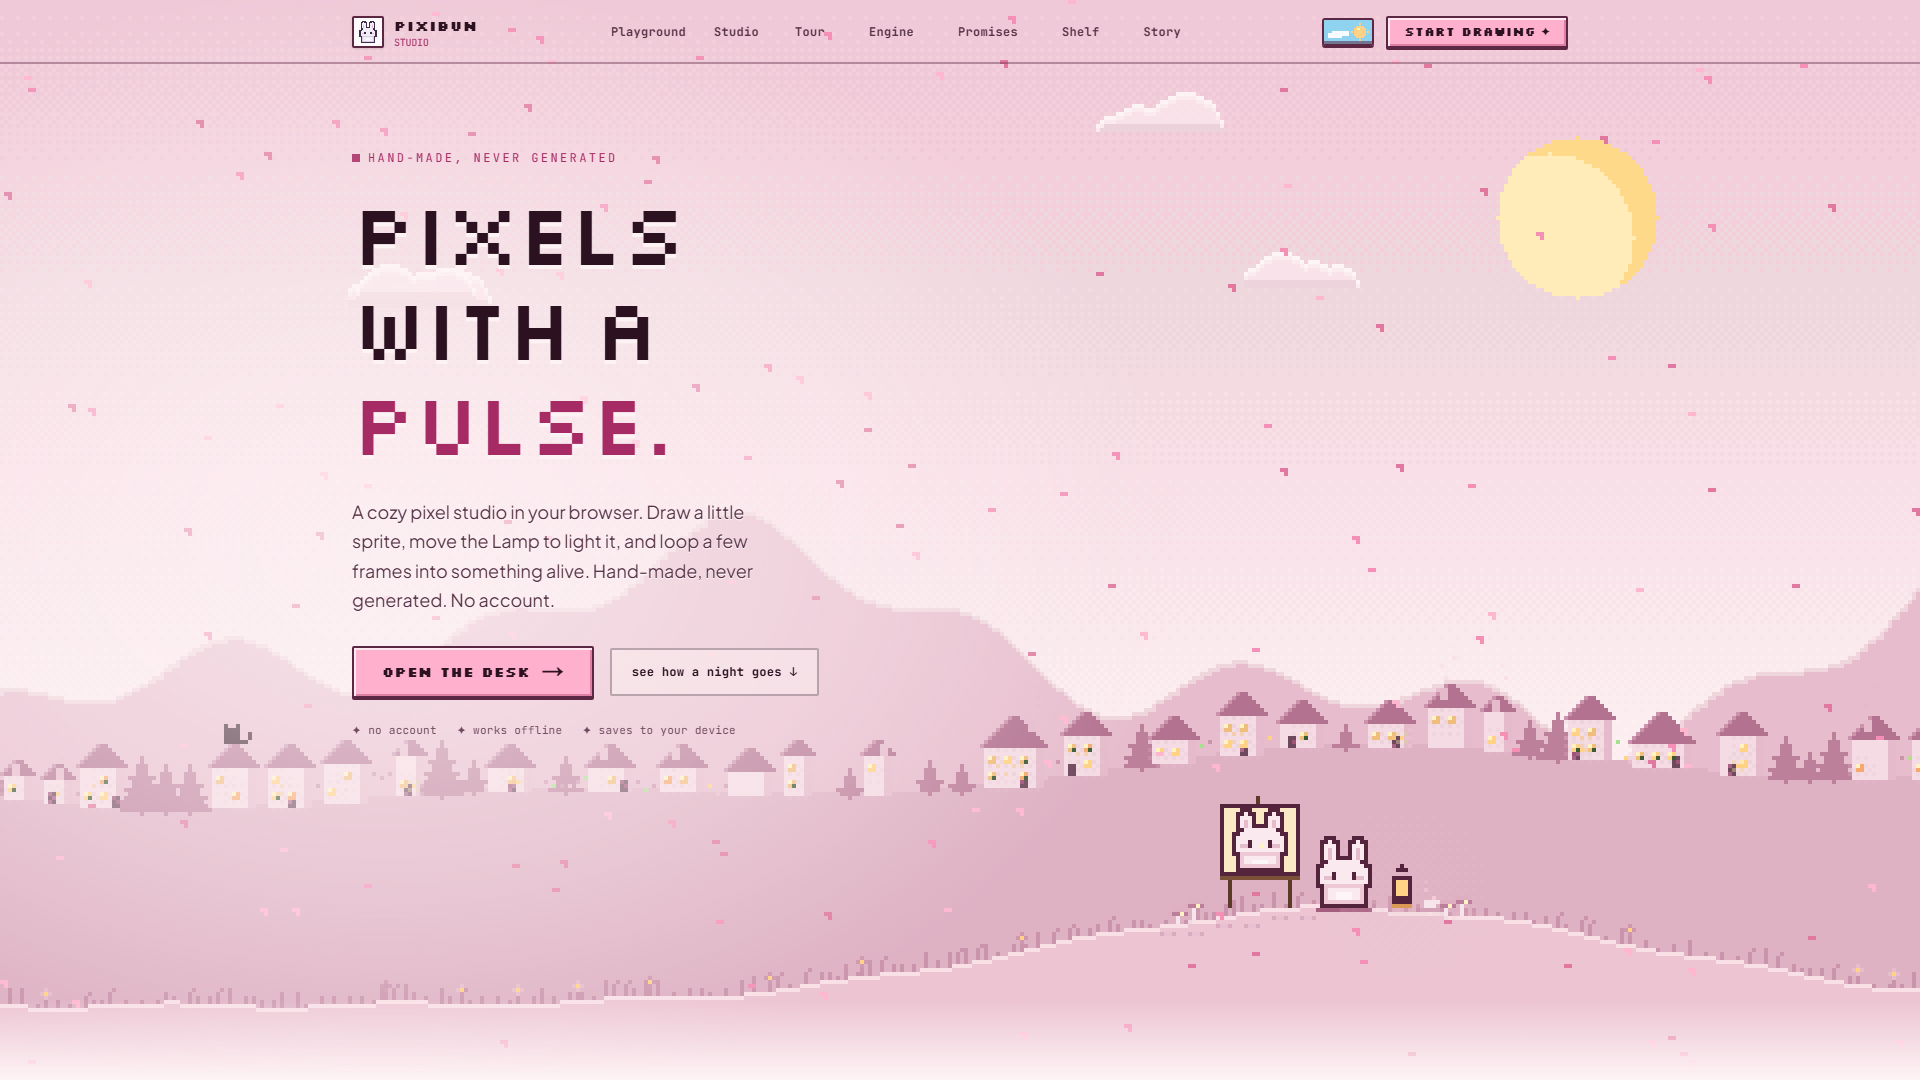
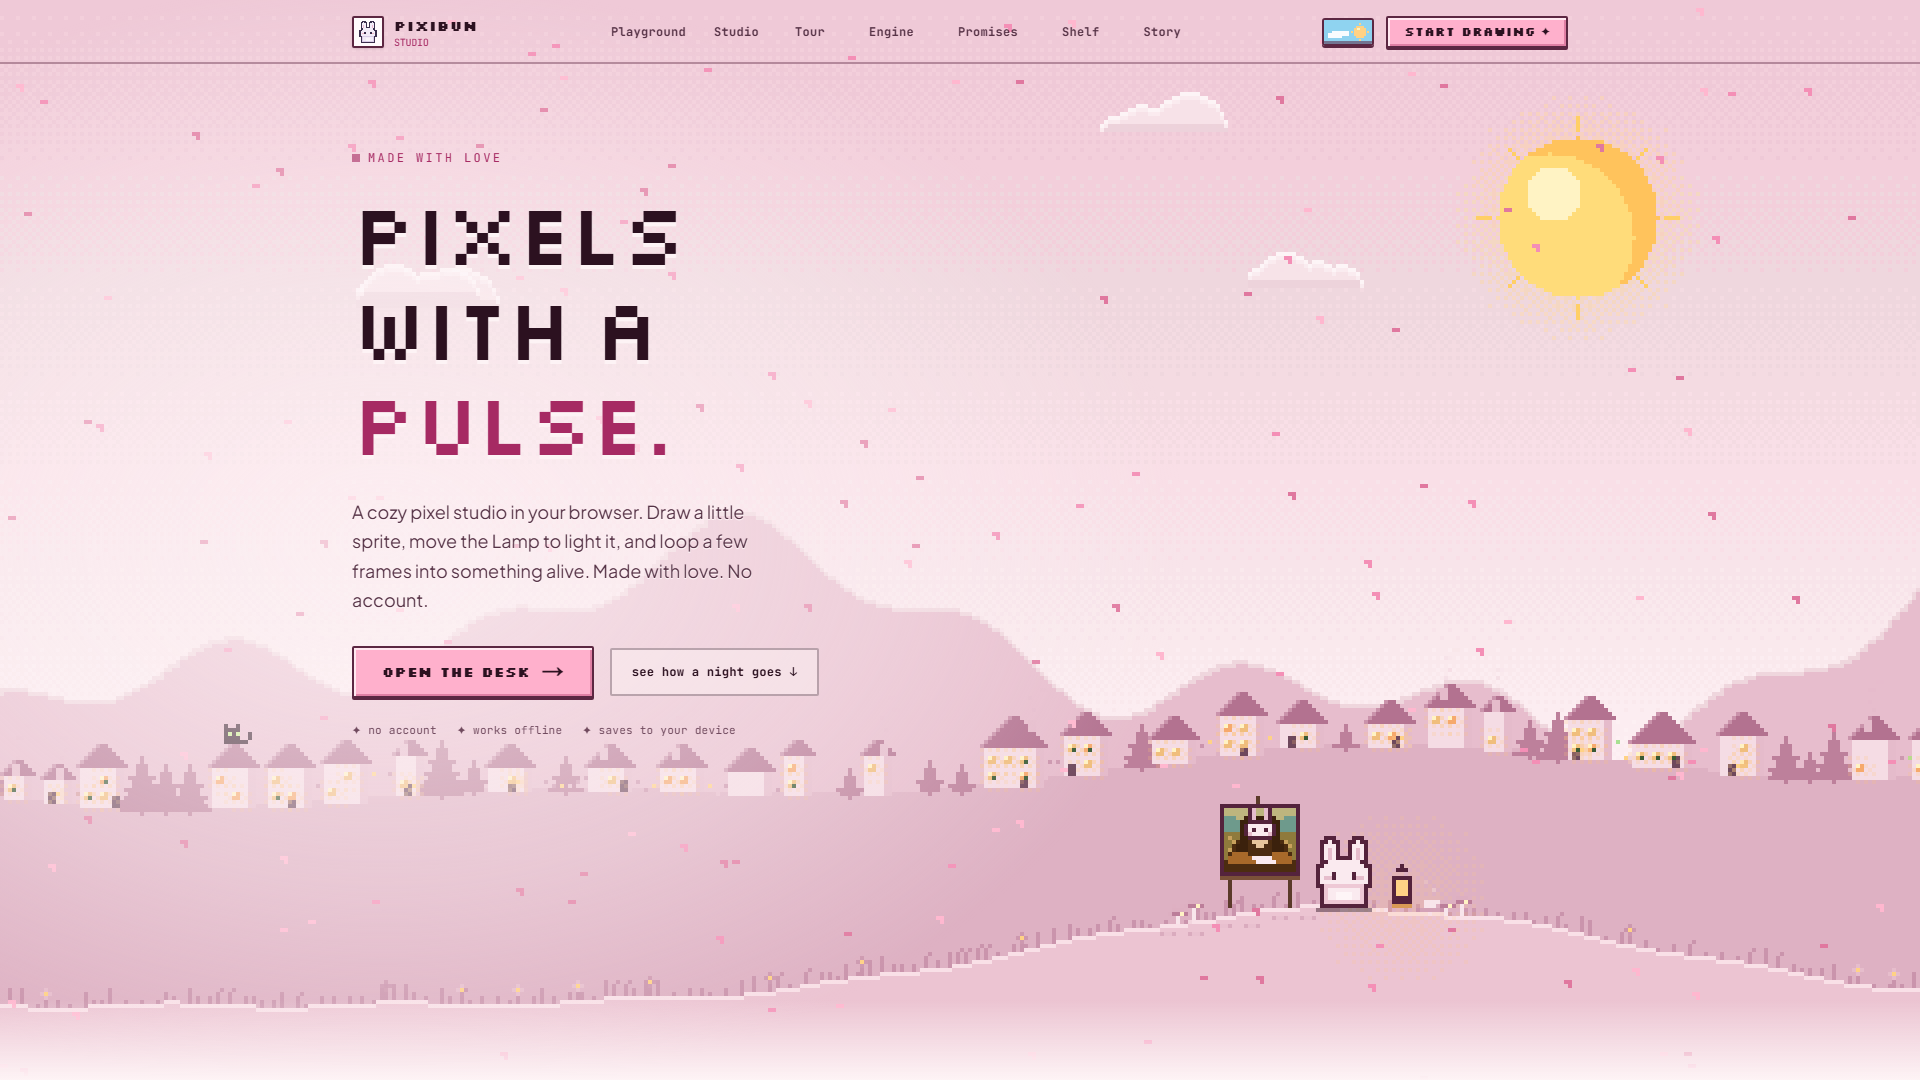
copy: "Made with love" on the homepage and pledge headline
The hero tag and sentence said "Hand-made, never generated" and the pledge headline "Every pixel
placed by a person". Both now say "Made with love"; the pledge's commitments are unchanged. The
README describes the tools as graphics algorithms and math, and its homepage shot is retaken.

diff --git a/src/components/landing/night/NightHero.tsx b/src/components/landing/night/NightHero.tsx
@@ -406,7 +406,7 @@ export const NightHero: React.FC = () => {
               className="inline-flex items-center gap-2 font-mono text-xs tracking-[0.2em] uppercase text-[var(--accent-gold)]"
             >
               <span aria-hidden="true" className="inline-block w-2 h-2 bg-[var(--accent-gold)] animate-pulse" />
-              hand-made, never generated
+              made with love
             </motion.p>
 
             <h1
@@ -439,7 +439,7 @@ export const NightHero: React.FC = () => {
               className="mt-6 max-w-md text-base sm:text-lg leading-relaxed text-[var(--text-body)] [text-shadow:0_1px_0_var(--desk-bg)] select-text"
             >
               A cozy pixel studio in your browser. Draw a little sprite, move the Lamp to light it, and loop a few
-              frames into something alive. Hand-made, never generated. No account.
+              frames into something alive. Made with love. No account.
             </motion.p>
 
             <motion.div {...reveal(2.35, skip)} className="mt-8 flex flex-wrap items-center gap-4">

diff --git a/src/app/pledge/page.tsx b/src/app/pledge/page.tsx
@@ -4,7 +4,7 @@ import { PixiBunLogo } from '@/components/ui/PixiBunLogo';
 
 export const metadata: Metadata = {
   title: 'Our pledge — PixiBun',
-  description: 'Every pixel placed by a person. PixiBun contains no generative AI model and never trains on anyone’s art.',
+  description: 'Made with love. PixiBun contains no generative AI model and never trains on anyone’s art.',
 };
 
 const PLEDGE_DATE = '2026-10-14';
@@ -25,7 +25,7 @@ export default function PledgePage() {
         </Link>
 
         <header className="flex flex-col gap-3">
-          <h1 className="font-display text-3xl sm:text-4xl leading-tight">Every pixel placed by a person.</h1>
+          <h1 className="font-display text-3xl sm:text-4xl leading-tight">Made with love.</h1>
           <p className="font-mono text-sm text-[var(--accent-gold)]">
             Our pledge, <time dateTime={PLEDGE_DATE}>14 October 2026</time>
             {' · '}wording clarified <time dateTime="2026-10-15">15 October 2026</time>

diff --git a/src/app/page.tsx b/src/app/page.tsx
@@ -16,7 +16,7 @@ import { SmoothScroll } from '@/components/landing/SmoothScroll';
 export const metadata: Metadata = {
   title: 'PixiBun — Pixels with a pulse',
   description:
-    'A cozy pixel art studio in your browser. Draw a sprite, light it with the Lamp and loop it into a little animation. Hand-made, never generated. No account.',
+    'A cozy pixel art studio in your browser. Draw a sprite, light it with the Lamp and loop it into a little animation. Made with love. No account.',
 };
 
 export default function Home() {

diff --git a/README.md b/README.md
@@ -13,7 +13,7 @@
   <a href="docs/testsprite/README.md">See how we test it</a>
 </p>
 
-<p align="center"><sub>No account. Works offline. Saves to your device. Every tool is algorithms and math: the app runs no AI model and never trains on your art (<a href="src/app/pledge/page.tsx">our pledge</a>).</sub></p>
+<p align="center"><sub>No account. Works offline. Saves to your device. Every tool is graphics algorithms and math, and nothing ever trains on your art (<a href="src/app/pledge/page.tsx">our pledge</a>). Made with love.</sub></p>
 
 ---
 
@@ -36,7 +36,7 @@ PixiBun is a desk for exactly that. It has a pixel pen and a timeline, a little 
 | 🤝 **Draw together** | Co-Draw connects two browsers directly so a friend can draw on your canvas with you. |
 | 🎮 **Straight into your game** | Sprite sheets, GIF and APNG, and a Godot kit with its frames and clips ready to drop into a project. |
 | 🌗 **A desk with a sky** | Twelve themes, each with a Night and a Day. Switch on the homepage and the moon sets behind the hills while the sun rises. |
-| 🤍 **Your art, on your terms** | No account, no tracking, works offline and saves to your device. The Lamp, cleanup, rotation and dithering are graphics algorithms and math you can tune: no AI model runs in the app, and nothing trains on your drawings. |
+| 🤍 **Your art, on your terms** | No account, no tracking, works offline and saves to your device. The Lamp, cleanup, rotation and dithering are graphics algorithms and math you can tune, and nothing trains on your drawings. |
 
 ## 🕯 7 pm · Light the lamp
 
@@ -158,8 +158,6 @@ For agent developers, **Nibbli** is a repository companion that drives the real 
 | See what's been checked, and when | [Current status](docs/current-status.md) · [TestSprite evidence](docs/testsprite/README.md) |
 | Understand the engine | [Architecture](ARCHITECTURE.md) · [rendering](docs/contracts/rendering.md) |
 | Dream a little | [v2 vision](V2_VISION.md) |
-
-<sub>How it was made: PixiBun was built with a lot of help from AI coding assistants. The app itself runs no AI: its engines are graphics algorithms and math.</sub>
 
 <sub>Screenshots and GIFs: Sakura theme by Day at 1920 × 1080, captured 22–23 October 2026 ([capture notes](docs/assets/screenshots/2026-10-23-sakura-day/run.json)). Thank you to Holly and the TestSprite team for patient answers through Season 4.</sub>
 

diff --git a/CHANGELOG.md b/CHANGELOG.md
@@ -8,6 +8,7 @@ All notable changes and architectural enhancements to the PixiBun codebase are d
   - **Smoother scrolling.** The homepage no longer replaces wheel scrolling with a main-thread glide (`scrollTo` every frame), which stuttered whenever a scene painted; scrolling is native again and in-page links still glide (`SmoothScroll.tsx`).
   - **Lighter frames.** The hero paints straight in the theme's colors (`sceneColor`) instead of reading back and recoloring every frame, its sky is a stamped canvas, and its sun and moon are cached sprites. The time change went from 60–80 ms of script per frame to about 3 ms in a development build, and the pause before a switch fell from about 130–180 ms to 60–90 ms there. The other landing scenes' per-frame recolor reads packed pixels and reuses the last color. The tour's text lines no longer blur with scroll.
   - **The sun is golden** with pixel rays, and Bun's easel holds the Mona Lisa with Bun's face, in colors every theme leaves as painted.
+  - **Made with love.** The hero tag, its sentence and the page description say "Made with love" instead of "Hand-made, never generated", and the pledge page's headline reads "Made with love." in place of "Every pixel placed by a person." The pledge itself is unchanged.
 
 - Homepage by Day, and Sakura's colors (23 October). The hero used to make Day by inverting its night painting, which washed out the town and Bun and left a muddy band behind the hills. It now paints its own daylight landscape (lightest at the horizon, hazy far hills, light cottages under rose roofs, white clouds and a soft sun; no stars or fireflies) and the theme recolor keeps those values (`src/components/landing/night/moonlitScene.ts`, `src/lib/theme/sceneRecolor.ts`). Sakura's Day second accent is honey `#8a5a0c` instead of royal blue, matching its Night. Accent colors used as text are deepened by Day where they are fills (Sakura's button pink), and the tour stage's colored glow stays faint in daylight.
 
